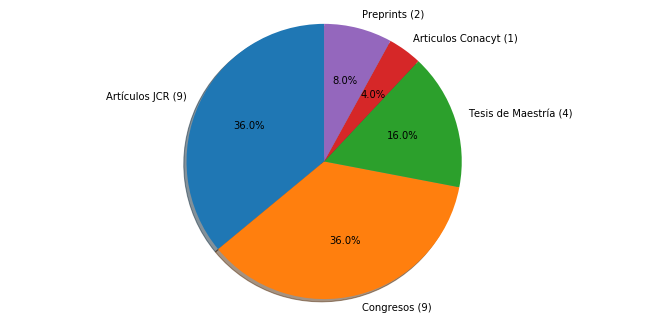
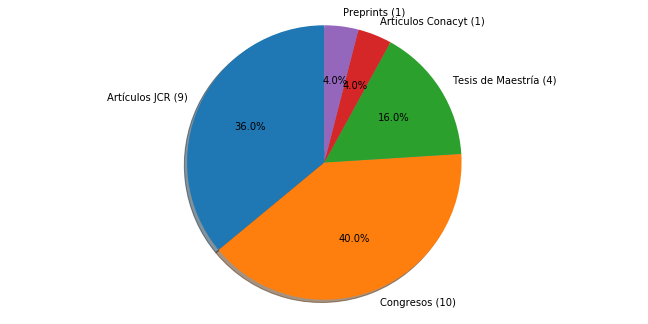
icmeae 2020 paper added

diff --git a/reports/full_cv/text/proceedings.tex b/reports/full_cv/text/proceedings.tex
@@ -1,4 +1,5 @@
 \begin{itemize} 
+\item J. Irving Vasquez-Gomez, VPL: A view planning library for 3D object reconstruction. ICMEAE 2020, \textit{ International Conference on Mechatronics, Electronics and Automotive Engineering 2020 (ICMEAE),} 2020 
 \item Rodr{\'\i}guez-Hernandez, Erick and Vasquez-Gomez, Juan Irving and Herrera-Lozada, Juan Carlos, Flying through Gates using a Behavioral Cloning Approach, \textit{ 2019 International Conference on Unmanned Aircraft Systems (ICUAS),} 2019 
 \item Vasquez-Gomez, Juan Irving and Herrera-Lozada, Juan-Carlos and Olguin-Carbajal, Mauricio, Coverage path planning for surveying disjoint areas, \textit{ 2018 International Conference on Unmanned Aircraft Systems (ICUAS),} 2018 
 \item Vasquez-Gomez, Juan Irving and Herrera-Lozada, Juan Carlos and Olguin-Carbajal, Mauricio, Spatial resolution optimization for terrain coverage with UAVs, \textit{ 2017 International Conference on Mechatronics, Electronics and Automotive Engineering (ICMEAE),} 2017 

diff --git a/reports/full_cv/text/preprints.tex b/reports/full_cv/text/preprints.tex
@@ -1,4 +1,3 @@
 \begin{itemize} 
-\item Vasquez-Gomez, J Irving, VPL: Towards a View Planning Library for Automated 3D Reconstruction, Technical Report, 2016 
-\item Vasquez-Gomez, J.I. and Troncoso, David and Sucar, Enrique and Murrieta-Cid and Becerra, Israel, NBV-Regression using a Convolutional Neural Network, Under review in Pattern Recognition Letters, 2019 
+\item Vasquez-Gomez, J.I. and Troncoso, David and Sucar, Enrique and Murrieta-Cid and Becerra, Israel, NBV-Regression using a Convolutional Neural Network, Under review in Machine Vision and Applications, 2020 
 \end{itemize} 

diff --git a/reports/full_cv/text/teaching.tex b/reports/full_cv/text/teaching.tex
@@ -17,4 +17,6 @@
 \item 2019/01/01, \textit{ Visión Artificial,} nivel Maestría, 72 horas. 
 \item 2019/01/01, \textit{ Temas Selectos en Tecnología de Cómputo,} nivel Maestría, 72 horas. 
 \item 2019/08/05, \textit{ Robótica Móvil,} nivel Doctorado, 72 horas. 
+\item 2020/01/20, \textit{ Visión Artificial,} nivel Maestría, 72 horas. 
+\item 2020/01/20, \textit{ Robótica Móvil,} nivel Doctorado, 72 horas. 
 \end{itemize} 
